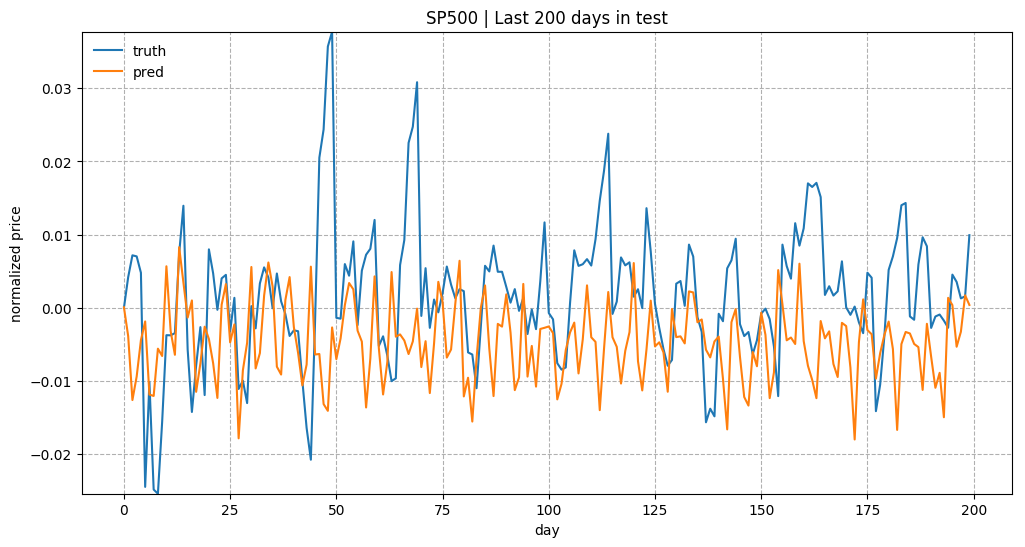
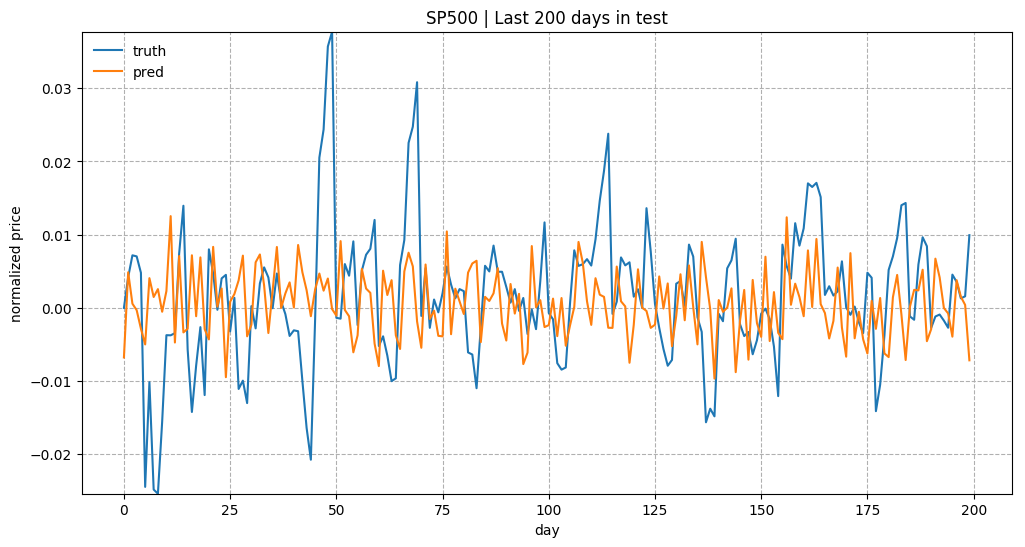
update images

Changed region(s): [[0.0937, 0.404, 0.9678, 0.808]]

diff --git a/_posts/2017-07-08-predict-stock-prices-using-RNN-part-1.md b/_posts/2017-07-08-predict-stock-prices-using-RNN-part-1.md
@@ -390,7 +390,7 @@ Overall predicting the stock prices is not an easy task. Especially after normal
 
 ![]({{ '/assets/images/rnn_input5_lstm128.png' | relative_url }})
 {: style="width: 500px;" class="center"}
-*Fig. 5c Predictoin results for the last 200 days in test data. Model is trained with input_size=5 and lstm_size=128.*
+*Fig. 5c Predictoin results for the last 200 days in test data. Model is trained with input_size=5, lstm_size=128 and max_epoch=75 (instead of 50).*
 
 
 
